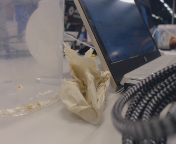
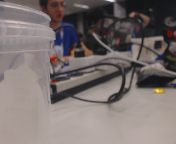
oriol

diff --git a/src/App.java b/src/App.java
@@ -3,11 +3,13 @@ import com.github.sarxos.webcam.Webcam;
 import javax.imageio.ImageIO;
 import javax.swing.*;
 import javax.swing.filechooser.FileNameExtensionFilter;
+import java.awt.*;
 import java.awt.event.*;
 import java.awt.image.BufferedImage;
 import java.io.File;
 import java.io.IOException;
 import java.util.List;
+import java.util.concurrent.TimeUnit;
 
 
 public class App extends JFrame {
@@ -29,7 +31,7 @@ public class App extends JFrame {
     public App() {
         add(contentPane);
         setTitle("XSOLVER");
-        setSize(700, 500);
+        setSize(900, 700);
         tab1();
         tab2();
 
@@ -40,17 +42,24 @@ public class App extends JFrame {
         uploadText.addMouseListener(new MouseAdapter() {
             @Override
             public void mouseClicked(MouseEvent a) {
-                uploadAction();
+                try {
+                    uploadAction();
+                } catch (InterruptedException e) {
+                    e.printStackTrace();
+                }
             }
         });
 
         uploadButton.addActionListener(new ActionListener() {
             @Override
             public void actionPerformed(ActionEvent e) {
-                uploadAction();
+                try {
+                    uploadAction();
+                } catch (InterruptedException e1) {
+                    e1.printStackTrace();
+                }
             }
         });
-
 
     }
 
@@ -66,14 +75,25 @@ public class App extends JFrame {
         photo.addActionListener(new ActionListener() {
             @Override
             public void actionPerformed(ActionEvent e) {
+                webcam.setViewSize(new Dimension(640, 480)); //640x480
                 webcam.open();
                 BufferedImage image = webcam.getImage();
-                // save image to PNG file
                 try {
-                    ImageIO.write(image, "PNG", new File("test.png"));
+                    ImageIO.write(image, "PNG", new File("pic.png"));
                 } catch (IOException e1) {
                     e1.printStackTrace();
                 }
+                webcam.close();
+                try {
+                    TimeUnit.SECONDS.sleep(4);
+                } catch (InterruptedException e1) {
+                    e1.printStackTrace();
+                }
+                ImageIcon icon = new ImageIcon("pic.png");
+                icon.getImage().flush();
+                view01.getViewImg().setIcon(icon);
+                System.out.println(icon);
+
             }
         });
     }
@@ -90,33 +110,20 @@ public class App extends JFrame {
         } else camsSelect.setSelectedItem("No webcams detected");
 
     }
-    private void uploadAction() {
+    private void uploadAction() throws InterruptedException {
         JFileChooser chooser = new JFileChooser();
         chooser.setFileFilter(new FileNameExtensionFilter("Archivos *.png, *.jpg, *.jpeg", "png","PNG","jpg","JPG","jpeg","JPEG"));
         chooser.showOpenDialog(null);
         final File f = chooser.getSelectedFile();
         String filename = f.getAbsolutePath();
-        if (f == null) {
-            return;
-        }
+
+        if (f == null) return;
+
         uploadText.setText(filename);
-
-        SwingWorker sw = new SwingWorker() {
-
-            @Override
-            protected Object doInBackground() throws Exception {
-                Thread.sleep(5000);//simulate large image takes long to load
-
-                return null;
-            }
-
-            @Override
-            protected void done() {
-                super.done();
-                view01.getViewImg().setIcon(icon);
-            }
-        };
-        sw.execute();
+        ImageIcon icon = new ImageIcon("pic.png");
+        icon.getImage().flush();
+        view01.getViewImg().setIcon(icon);
+        System.out.println(icon);
 
     }
 }

diff --git a/src/View0.java b/src/View0.java
@@ -5,8 +5,6 @@ import java.io.File;
 
 public class View0 extends JPanel {
     private JPanel bottom;
-    private JTextField uploadText;
-    private JLabel preImg;
     private JTextArea viewSolution;
     private JButton solve;
     private JLabel viewImg;

diff --git a/src/Main.java b/src/Main.java
@@ -7,6 +7,7 @@ public class Main {
         UIManager.setLookAndFeel(UIManager.getSystemLookAndFeelClassName());
         App app = new App();
         app.setVisible(true);
+        app.setResizable(false);
 
     }
 }
